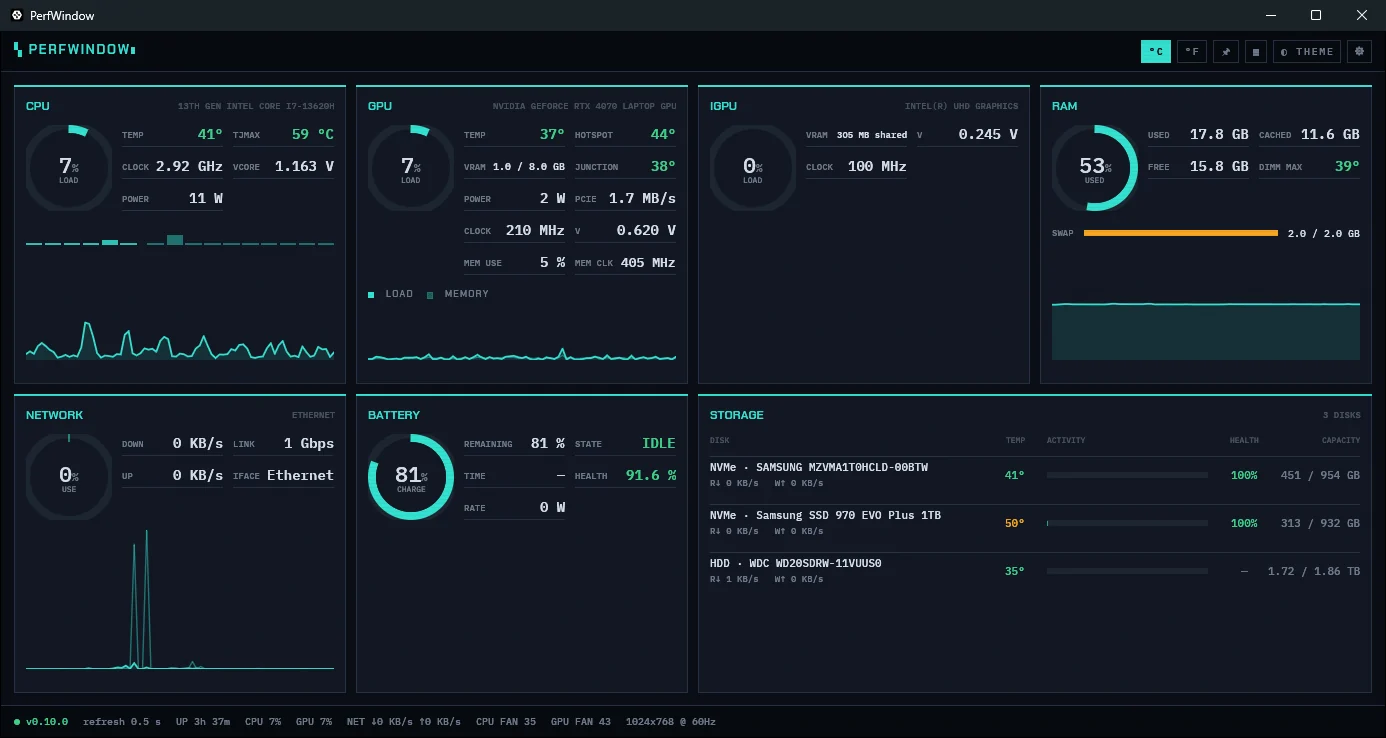
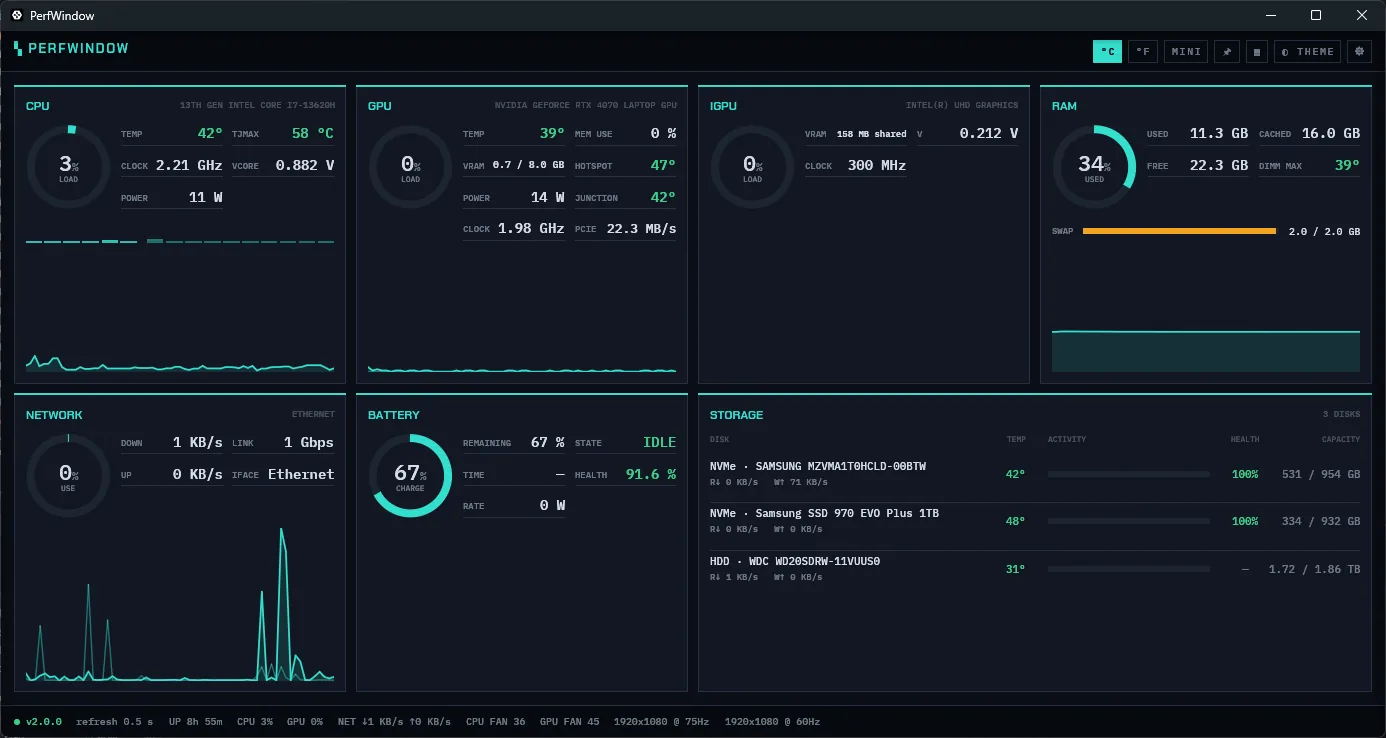
feat: PerfWindow 2.0 screenshots and the overlay strip wording

diff --git a/index.html b/index.html
@@ -309,7 +309,7 @@
                 <li>Rust and egui dashboard fed by a .NET sensor service built on LibreHardwareMonitor, over a named pipe.</li>
                 <li>The service starts on demand and exits with the window: nothing stays resident, no tray icon.</li>
                 <li>The installer handles the signed PawnIO driver, elevation and clean removal.</li>
-                <li>Scales to fit any window, turns see-through, or docks as a one-line strip at the top of the screen.</li>
+                <li>Scales to fit any window, turns see-through, or shrinks to a one-line strip over the top of the screen.</li>
             </ul>
             <p class="stack">Rust, egui, C#, .NET 8, Inno Setup</p>
             <p class="links">
